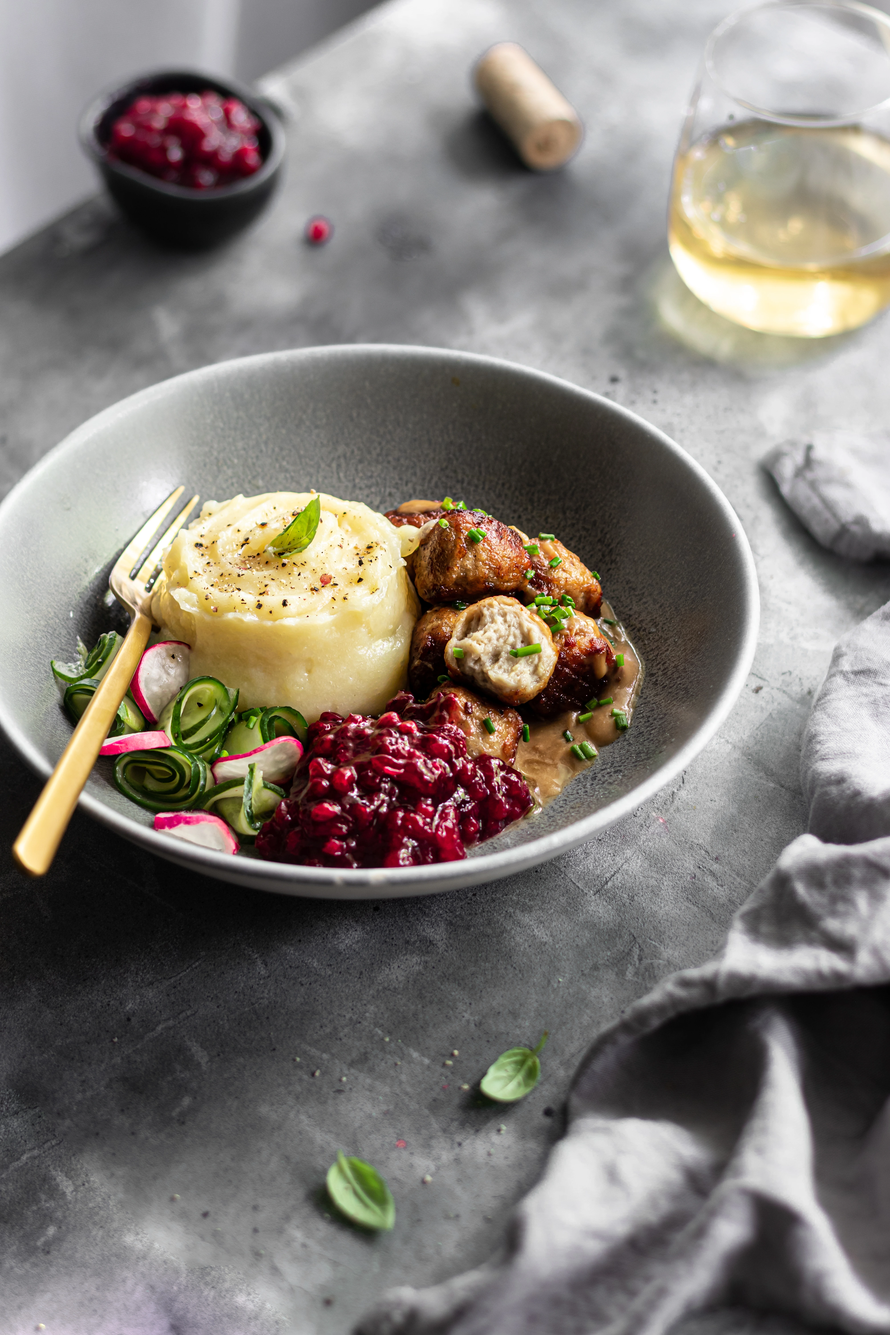
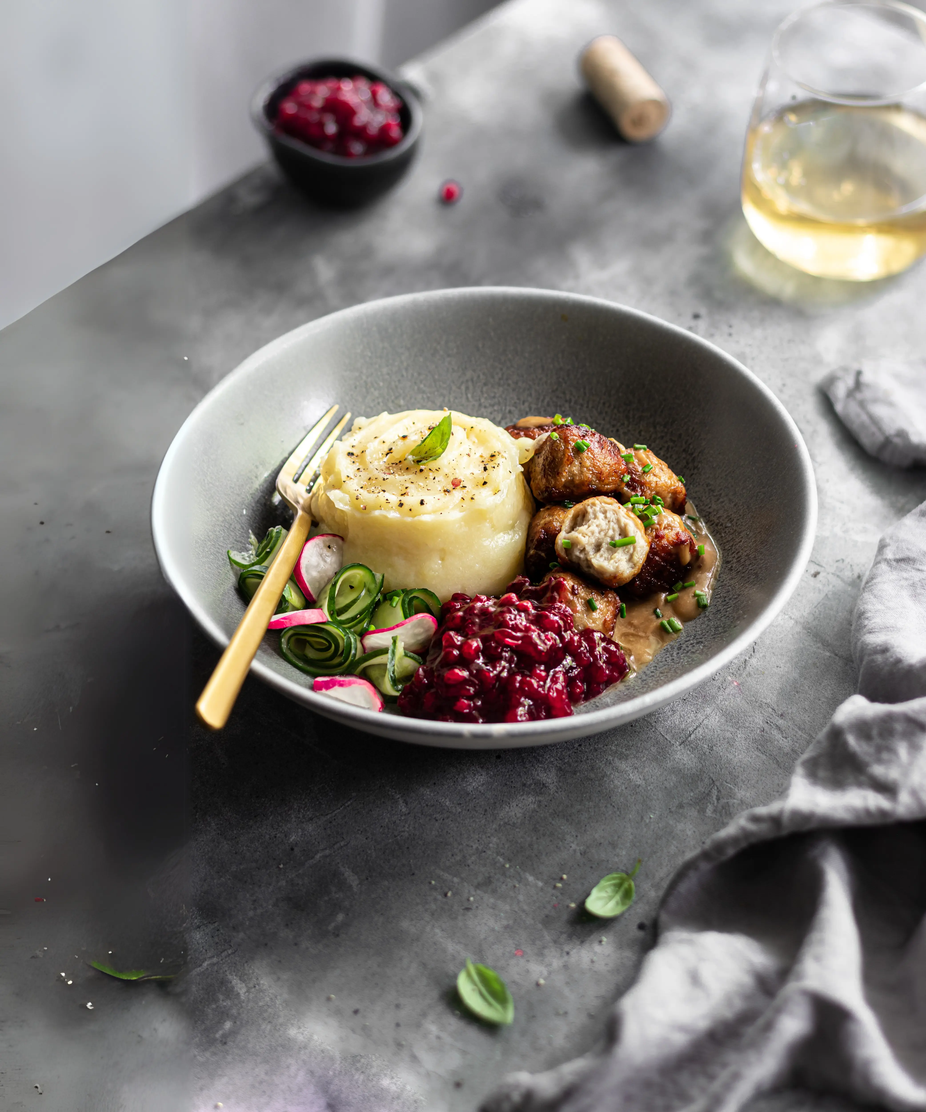
uppdaterat bilder i header

diff --git a/components/general/ImageDisplay.tsx b/components/general/ImageDisplay.tsx
@@ -1,74 +1,79 @@
-"use client"
+"use client";
 import React from "react";
-import { useLang } from "@/hooks/useLang"; // Importera språkhantering
+import { useLang } from "@/hooks/useLang";
 import Image from "next/image";
 
 const ImageDisplay: React.FC = () => {
-  const { text } = useLang(); // Hämta text från LangProvider
+  const { text } = useLang(); 
 
   return (
-    <div className="mt-2"> {/* Avstånd från navbaren */}
-      {/* Bildlayouten */}
-      <div className="grid gap-1 md:gap-2 px-2 md:px-2 md:grid-cols-3 md:grid-rows-1 grid-cols-2 grid-auto-rows md:h-auto">
-        {/* Första bilden - Mindre höjd på mobil */}
-        <div className="relative w-full col-span-2 md:col-span-1 h-[150px] md:h-[415px]">
-        <Image 
-  src="/images/klimatsmart.webp" 
-  alt={text.imageDisplay.klimatsmart} 
-  width={500} // Sätt ett breddvärde
-  height={500} // Sätt ett höjdvärde
-  className="w-full h-[150px] md:h-[415px] object-cover rounded-md object-[50%_60%] md:object-center"
-  priority={true} 
-  loading="eager"
-  fetchPriority="high"
-  decoding="sync"
-  unoptimized={true}
-/>
-          <div className="absolute bottom-2 right-2 md:bottom-4 md:right-4 bg-white px-1.5 md:px-3 py-1 md:py-2 rounded-md shadow-md flex items-center gap-1 md:gap-1">
-          <span className="text-black font-medium text-[6px] md:text-xs">✔</span>
-            <span className="text-[8px] md:text-xs font-semibold">{text.imageDisplay.klimatsmart}</span>
-          </div>
-        </div>
-
-        {/* Andra bilden - Kockförberedd (Högre på mobil) */}
-        <div className="relative w-full h-[180px] md:h-[415px]">
+    <div className="relative w-full h-[150px] md:h-[400px] overflow-hidden">
+      {/* Bild 1 – vänster, bredare nertill, lutning på höger sida */}
+      <div
+        className="absolute top-0 left-0 h-full"
+        style={{
+          width: "31%",
+          clipPath: "polygon(0 0, 85% 0, 100% 100%, 0 100%)",
+        }}
+      >
         <Image
-            src="/images/kockforberedd.webp" 
-            alt={text.imageDisplay.kockforberedd}
-            width={500} // Sätt ett breddvärde
-            height={500} // Sätt ett höjdvärde
-            className="w-full h-[180px] md:h-[415px] object-cover rounded-md object-[50%_38%]" 
-            priority={true}
-            loading="eager"
-            fetchPriority="high"
-            decoding="sync"
-            unoptimized={true}
-          />
-          <div className="absolute bottom-2 right-2 md:bottom-4 md:right-4 bg-white px-1.5 md:px-3 py-1 md:py-2 rounded-md shadow-md flex items-center gap-1 md:gap-1">
-          <span className="text-black font-medium text-[6px] md:text-xs">✔</span>
-            <span className="text-[8px] md:text-xs font-semibold">{text.imageDisplay.kockforberedd}</span>
-          </div>
-        </div>
+          src="/images/kockforberedd.webp"
+          alt={text.imageDisplay.kockforberedd}
+          fill
+          className="object-cover"
+          style={{ objectPosition: "center 38%" }}
+          unoptimized
+        />
+        <div className="absolute bottom-2 left-2 md:bottom-4 md:left-4 bg-white px-1.5 md:px-3 py-0.5 md:py-2 rounded-sm shadow-md flex items-center gap-1 md:gap-1">
+  <span className="text-black font-medium text-[6px] md:text-xs">✔</span>
+  <span className="text-[8px] md:text-xs font-semibold">{text.imageDisplay.kockforberedd}</span>
+</div>
+      </div>
 
-        {/* Tredje bilden - Matbilden (Högre på mobil) */}
-        <div className="relative w-full h-[180px] md:h-[415px]">
+      {/* Bild 2 – mitten, omvänd triangel (bredare upptill) */}
+      <div
+        className="absolute top-0 h-full"
+        style={{
+          left: "27%",
+          width: "46%",
+          clipPath: "polygon(0 0, 100% 0, 90% 100%, 10% 100%)",
+        }}
+      >
         <Image
-            src="/images/enkelt-gott.webp" 
-            alt={text.imageDisplay.enkeltgott}
-            width={500} // Sätt ett breddvärde
-            height={500} // Sätt ett höjdvärde
-            className="w-full h-[180px] md:h-[415px] object-cover rounded-md object-[50%_40%]"
-            priority={true}
-            loading="eager"
-            fetchPriority="high"
-            decoding="sync"
-            unoptimized={true}
-          />
-          <div className="absolute bottom-2 right-2 md:bottom-4 md:right-4 bg-white px-1.5 md:px-3 py-1 md:py-2 rounded-md shadow-md flex items-center gap-1 md:gap-1">
-          <span className="text-black font-medium text-[6px] md:text-xs">✔</span>
-            <span className="text-[8px] md:text-xs font-semibold">{text.imageDisplay.enkeltgott}</span>
-          </div>
-        </div>
+          src="/images/klimatsmart.webp" 
+          alt={text.imageDisplay.klimatsmart}
+          fill
+          className="object-cover"
+          unoptimized
+        />
+        <div className="absolute bottom-2 left-1/2 transform -translate-x-1/2 md:bottom-4 bg-white px-1.5 md:px-3 py-0.5 md:py-2 rounded-sm shadow-md flex items-center gap-1 md:gap-1">
+  <span className="text-black font-medium text-[6px] md:text-xs">✔</span>
+  <span className="text-[8px] md:text-xs font-semibold">{text.imageDisplay.klimatsmart}</span>
+</div>
+
+      </div>
+
+      {/* Bild 3 – höger, bredare nertill, lutning på vänster sida */}
+      <div
+        className="absolute top-0 h-full"
+        style={{
+          left: "69%",
+          width: "31%",
+          clipPath: "polygon(15% 0, 100% 0, 100% 100%, 0 100%)",
+        }}
+      >
+        <Image
+          src="/images/enkelt-gott.webp"
+          alt={text.imageDisplay.enkeltgott}
+          fill
+          className="object-cover"
+          style={{ objectPosition: "center 20%" }}
+          unoptimized
+        />
+         <div className="absolute bottom-2 right-2 md:bottom-4 md:right-4 bg-white px-1.5 md:px-3 py-0.5 md:py-2 rounded-sm shadow-md flex items-center gap-1 md:gap-1">
+         <span className="text-black font-medium text-[6px] md:text-xs">✔</span>
+           <span className="text-[8px] md:text-xs font-semibold">{text.imageDisplay.enkeltgott}</span>
+         </div>
       </div>
     </div>
   );

diff --git a/components/section/LoadingScreen.tsx b/components/section/LoadingScreen.tsx
@@ -1,19 +1,30 @@
-import LottieAnimation from "../ui/LottieAnimation";
+"use client";
+
+import dynamic from "next/dynamic";
 import matkasse from "../../public/anim/Matkasse.json";
 import klocka from "../../public/anim/Klocka.json";
 import jordklot from "../../public/anim/Jordklot.json";
 
+// Dynamisk import av LottieAnimation – bara på klienten
+const LottieAnimation = dynamic(() => import("../ui/LottieAnimation"), {
+  ssr: false,
+});
+
 const LoadingScreen = () => {
   const animationComponent = [
-    <LottieAnimation key={"loadinganimation 1"} animationData={matkasse} />,
-    <LottieAnimation key={"loadinganimation 2"} animationData={klocka} />,
-    <LottieAnimation key={"loadinganimation 3"} animationData={jordklot} />,
+    <LottieAnimation key="loadinganimation-1" animationData={matkasse} />,
+    <LottieAnimation key="loadinganimation-2" animationData={klocka} />,
+    <LottieAnimation key="loadinganimation-3" animationData={jordklot} />,
   ];
 
   return (
     <div className="w-screen h-screen flex justify-center items-center">
       <div className="w-96 h-96">
-        {animationComponent[Math.floor(Math.random() * animationComponent.length)]}
+        {
+          animationComponent[
+            Math.floor(Math.random() * animationComponent.length)
+          ]
+        }
       </div>
     </div>
   );
